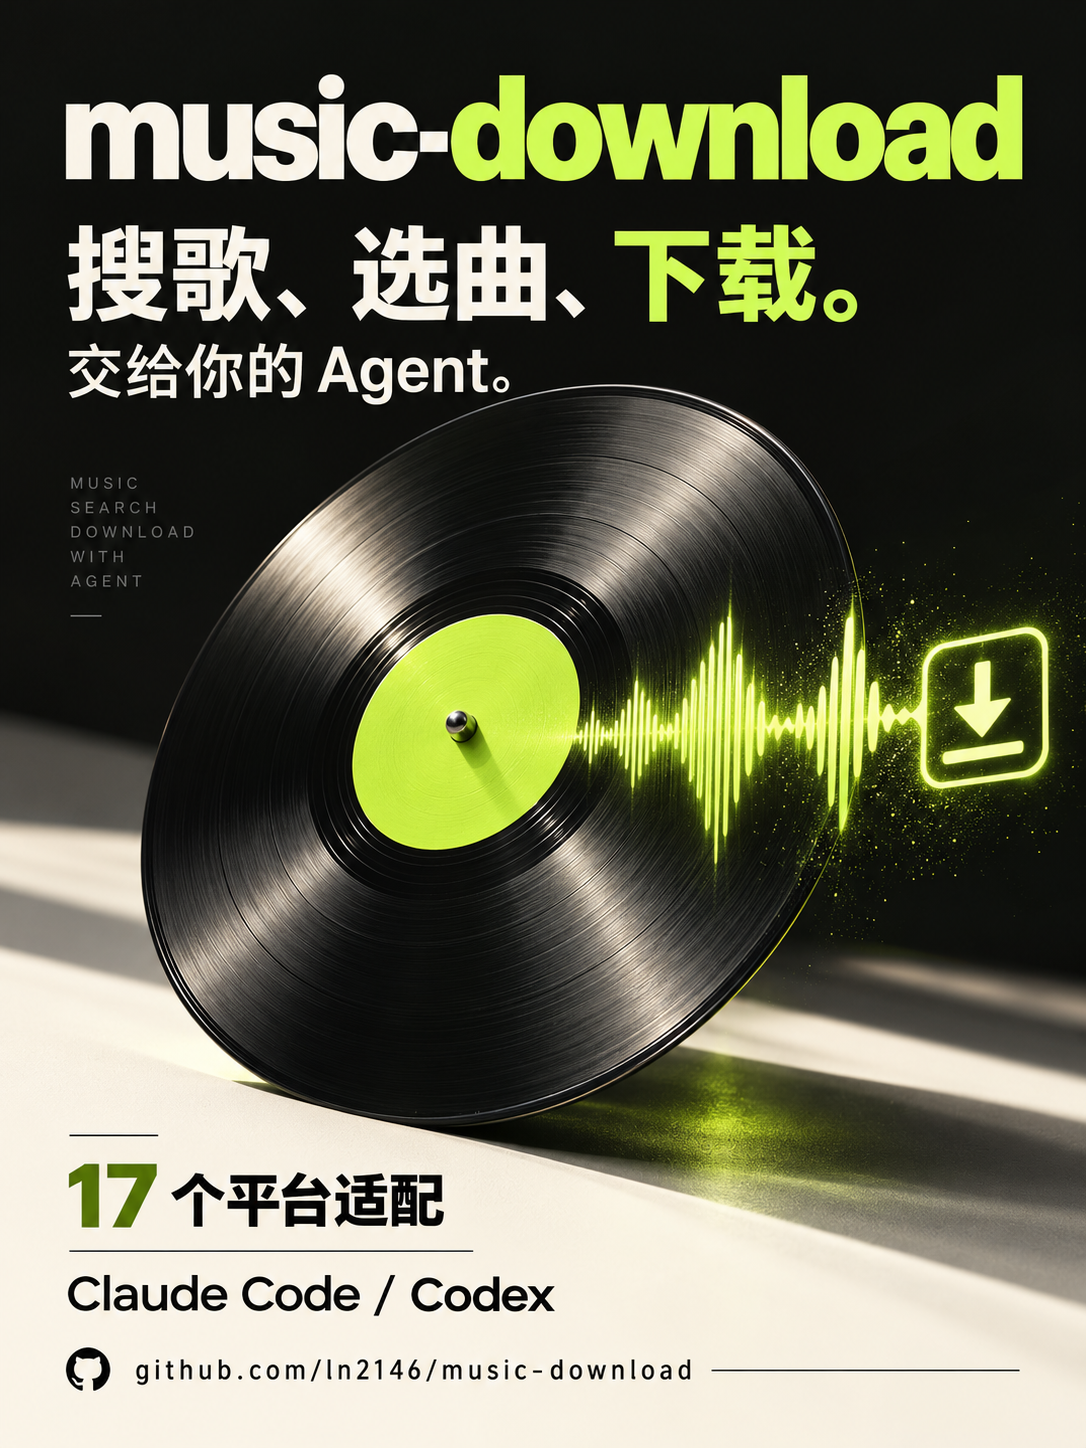
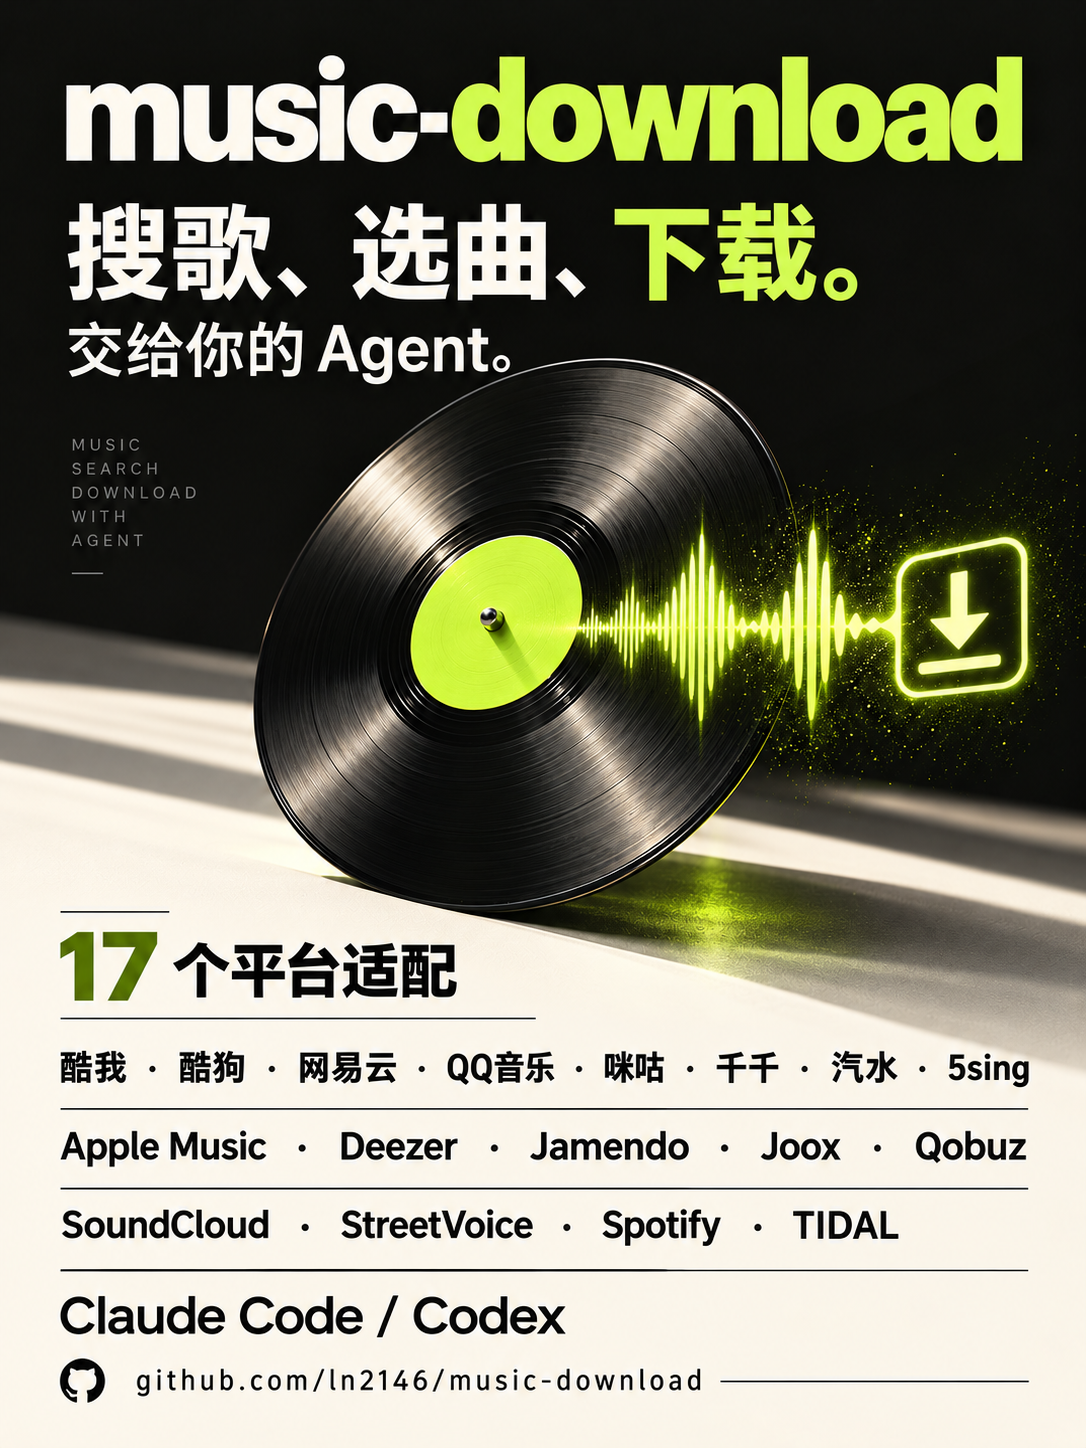
Show all supported platforms in project artwork

diff --git a/assets/image-prompts.md b/assets/image-prompts.md
@@ -7,7 +7,35 @@
 
 两张图采用一致的黑胶唱片、音频波形与下载符号，配色为石墨黑、暖白与荧光绿。文案中的“17 个平台适配”表示适配范围，不代表所有平台在任何条件下都可下载。实际可用性见项目测试记录。
 
-## 共用提示词
+## 平台名单版修订
+
+本次使用内置 image_gen 编辑两张原图，在封面和宣传海报上直接加入全部 17 个平台名称。以下为提交的完整修订提示词，参考图分别为仓库中的原版封面和海报。
+
+### 封面
+
+参考图：`readme-cover.png`（首版）。
+
+```text
+Use case: text-localization / precise marketing image edit. Edit the provided existing music-download artwork. Preserve the original visual identity: graphite-black vinyl record, luminous acid-lime center and audio waveform, warm ivory background, refined editorial typography. Preserve the exact project name "music-download", original Chinese headline, "Claude Code / Codex", and the wording "17 个平台适配". The single requested change is to clearly show the FULL list of all 17 platform names in the artwork. The names are plain typography, not logos, and must each appear exactly once, with exact spelling and Chinese characters. List (three intentional rows):
+酷我 · 酷狗 · 网易云 · QQ音乐 · 咪咕 · 千千 · 汽水 · 5sing
+Apple Music · Deezer · Jamendo · Joox · Qobuz
+SoundCloud · StreetVoice · Spotify · TIDAL
+Do not omit, duplicate, replace, misspell or invent any platform. Do not say all platforms are always available or add membership/free/lossless guarantees. Typeset the list with strong contrast, generous enough line spacing, and large readable text, especially at phone size. Do not cover the list with the record, waveform or any other object. Slightly adjust scale and spacing to fit the new information while preserving the premium original composition. No fake screenshots or QR codes. Target: existing wide README cover. Keep it landscape. Preserve the left large title "music-download" and tagline "一句指令，让音乐落地。" and the sculptural vinyl on the right. Add an integrated warm-ivory footer region across the lower portion of the banner for the three platform rows. It is acceptable to give the banner slightly more height and move the disc upward so ALL names remain legible. Make the platform list a real intentional part of the graphic, not a sticker, and do not use microprint. Group it directly with "17 个平台适配". Keep the black/ivory/lime color palette and high-end audio aesthetic.
+```
+
+### 宣传海报
+
+参考图：`promo-poster.png`（首版）。
+
+```text
+Use case: text-localization / precise marketing image edit. Edit the provided existing music-download artwork. Preserve the original visual identity: graphite-black vinyl record, luminous acid-lime center and audio waveform, warm ivory background, refined editorial typography. Preserve the exact project name "music-download", original Chinese headline, "Claude Code / Codex", and the wording "17 个平台适配". The single requested change is to clearly show the FULL list of all 17 platform names in the artwork. The names are plain typography, not logos, and must each appear exactly once, with exact spelling and Chinese characters. List (three intentional rows):
+酷我 · 酷狗 · 网易云 · QQ音乐 · 咪咕 · 千千 · 汽水 · 5sing
+Apple Music · Deezer · Jamendo · Joox · Qobuz
+SoundCloud · StreetVoice · Spotify · TIDAL
+Do not omit, duplicate, replace, misspell or invent any platform. Do not say all platforms are always available or add membership/free/lossless guarantees. Typeset the list with strong contrast, generous enough line spacing, and large readable text, especially at phone size. Do not cover the list with the record, waveform or any other object. Slightly adjust scale and spacing to fit the new information while preserving the premium original composition. No fake screenshots or QR codes. Target: existing vertical promotional poster. Preserve the top title "music-download", headline "搜歌、选曲、下载。", supporting line "交给你的 Agent。", and exact footer URL "github.com/ln2146/music-download". Rebalance the lower ivory area to add the three platform rows under "17 个平台适配" and above "Claude Code / Codex" and the GitHub URL. Reduce the central disc and waveform modestly or increase the ivory footer area to give the names real space. Keep a portrait poster composition with large readable type, clear margins and clean separation between platform rows. Do not compress the 17 names into a tiny line.
+```
+
+## 首版共用提示词
 
 以下共用文本分别与后面的对应图片提示词拼接后提交：
 

diff --git a/README.md b/README.md
@@ -1,7 +1,7 @@
 # music-download
 
 <p align="center">
-  <img src="assets/readme-cover.png" alt="music-download：一句指令，让音乐落地。" width="100%">
+  <img src="assets/readme-cover.png" alt="music-download：一句指令，让音乐落地。适配酷我、酷狗、网易云、QQ音乐、咪咕、千千、汽水、5sing、Apple Music、Deezer、Jamendo、Joox、Qobuz、SoundCloud、StreetVoice、Spotify、TIDAL。" width="100%">
 </p>
 
 **供 Claude Code、Codex 使用的音乐搜索与下载 skill。** 支持跨平台搜索、歌曲版本选择、单曲与批量下载、歌单解析，结果保存到本地。
